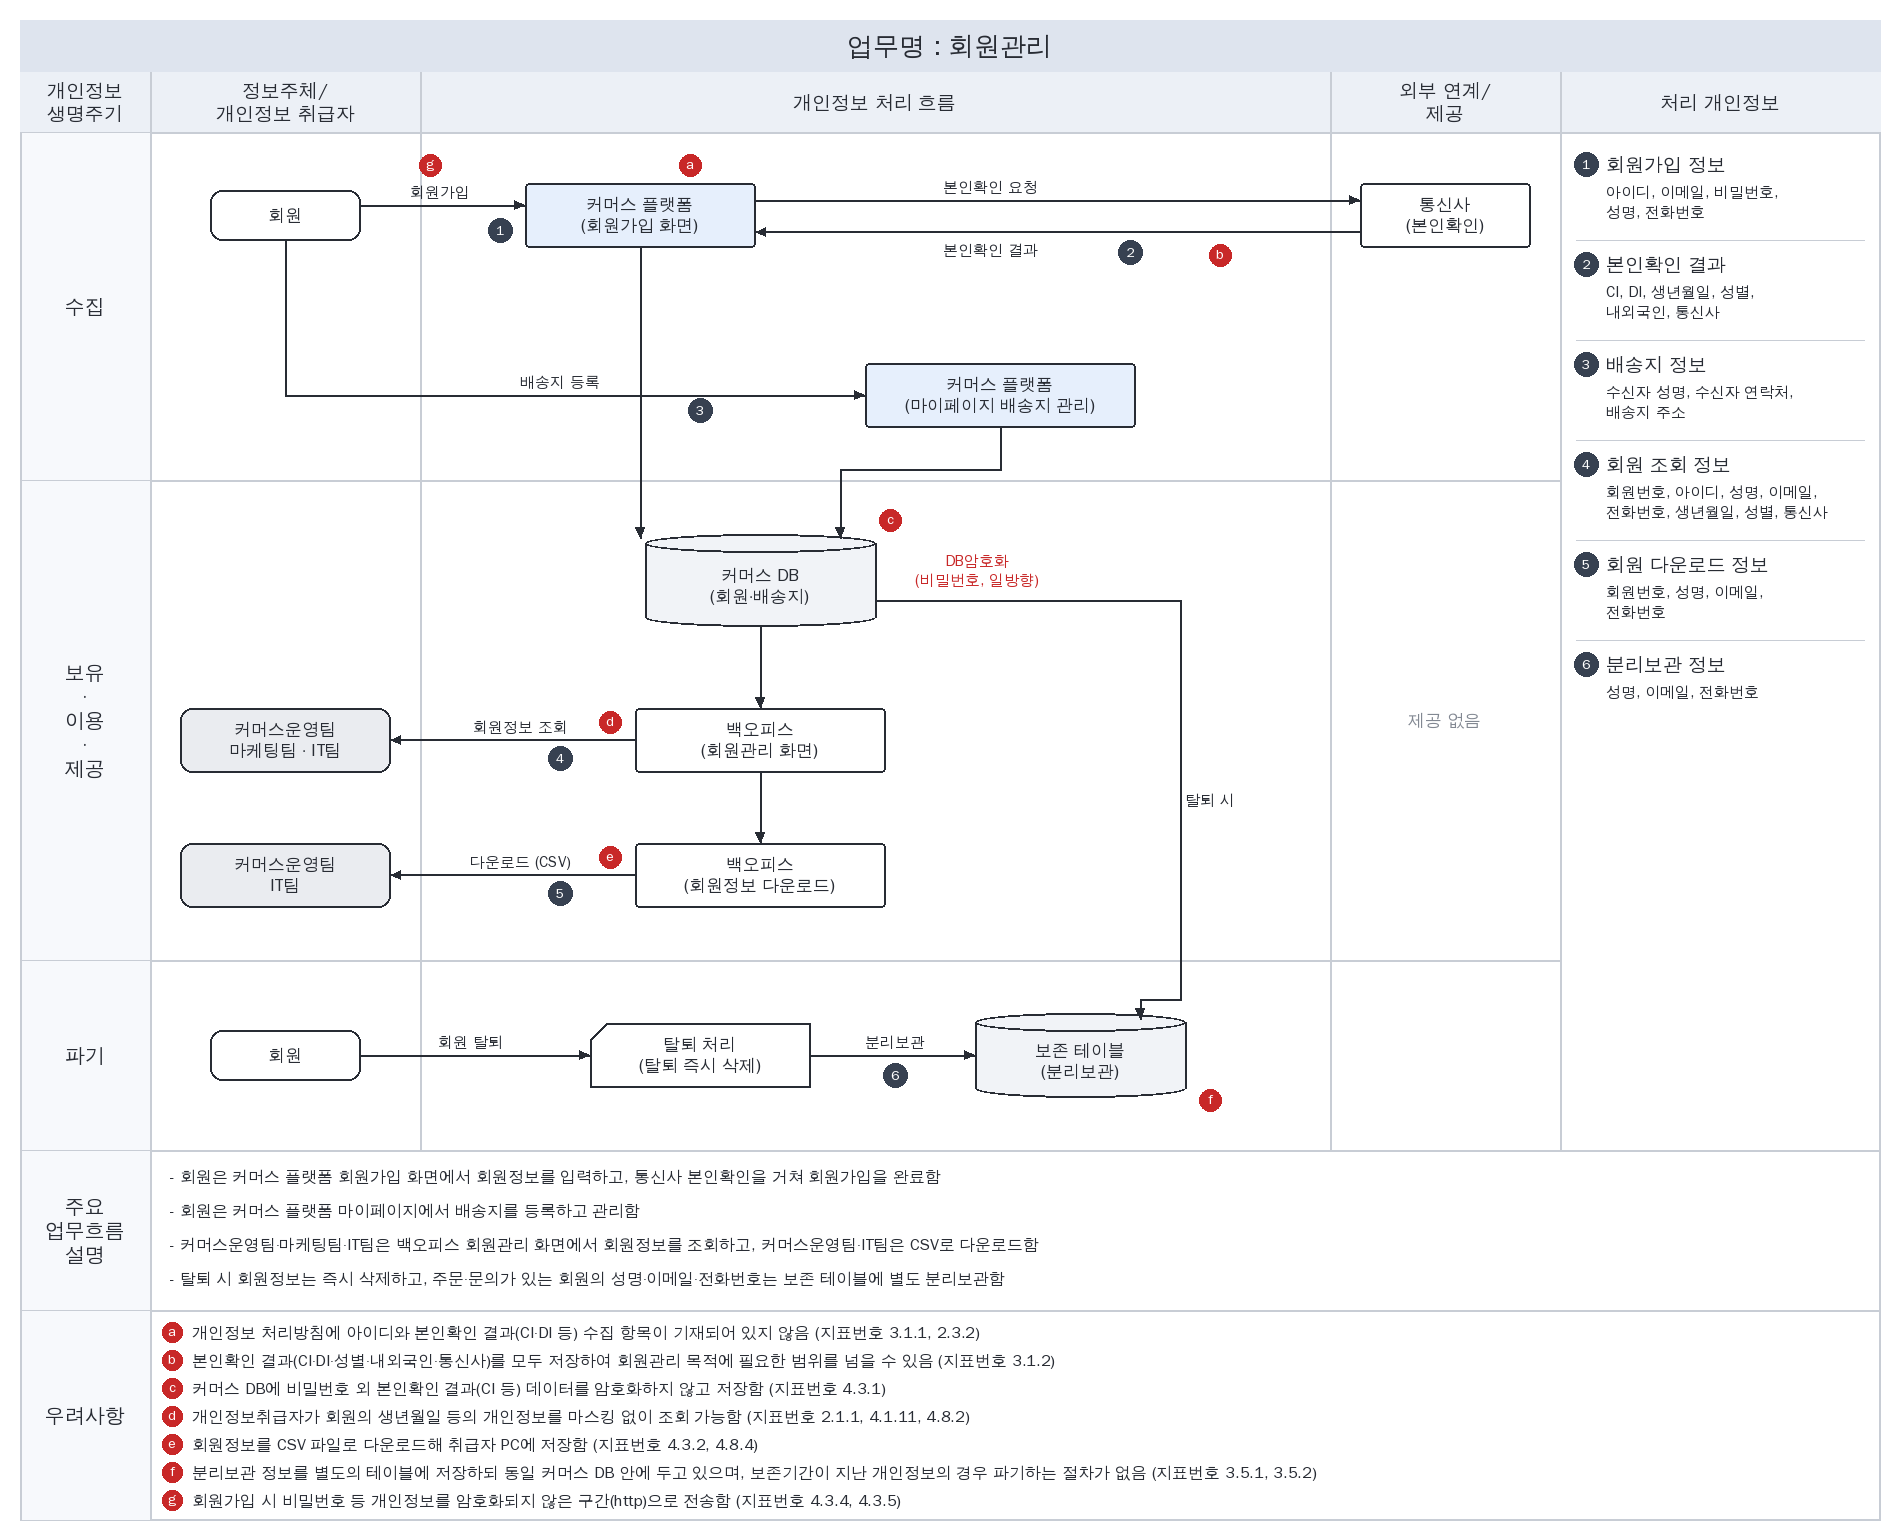
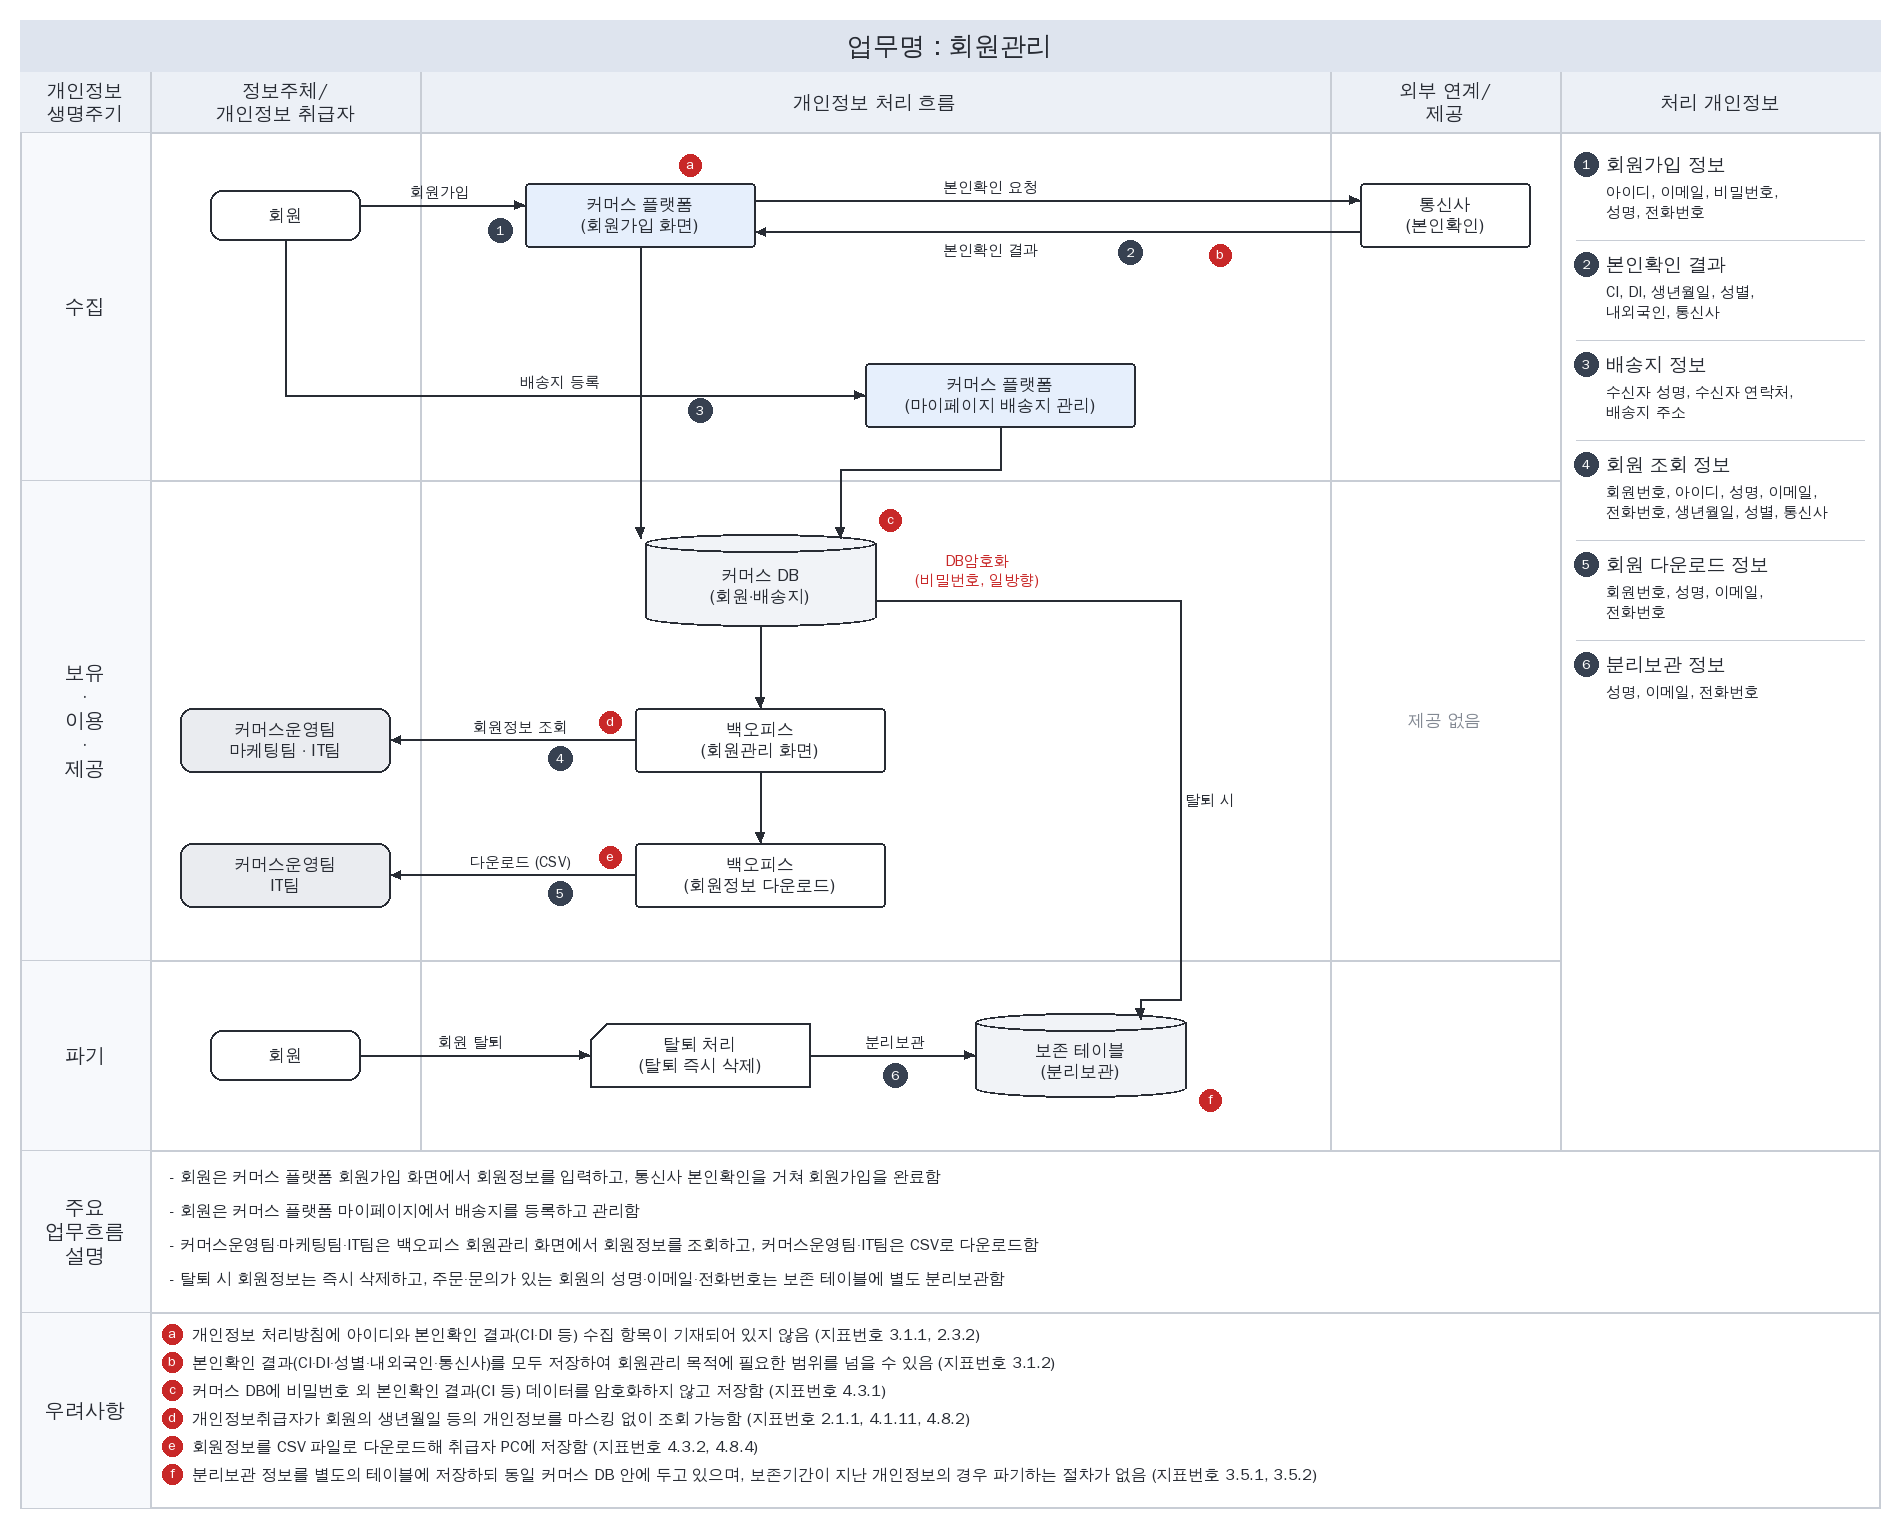
docs(pia): 주문·결제 개인정보 흐름표·흐름도 추가
Claude-Session: https://claude.ai/code/session_014Tg7LS15gSB8NVMa5p89Kz

diff --git a/docs/pia/개인정보_흐름표.md b/docs/pia/개인정보_흐름표.md
@@ -1,7 +1,7 @@
 # 개인정보 흐름표
 
 > 안내서 3.2 개인정보 흐름표 작성(41~48쪽). 개인정보 처리업무표의 업무마다 수집, 보유·이용, 제공·파기 현황을 적습니다. 해당 사항이 없는 칸은 `-`
-> 평가자료(처리방침·설계 문서·업무흐름도)와 시스템 담당자 인터뷰·실사로 작성했습니다. 현재 회원관리 업무를 작성했고, 나머지 업무는 이어서 추가합니다
+> 평가자료(처리방침·설계 문서·업무흐름도)와 시스템 담당자 인터뷰·실사로 작성했습니다. 현재 회원관리, 주문·결제 업무를 작성했고, 나머지 업무는 이어서 추가합니다
 > 원본: [개인정보_흐름표.xlsx](개인정보_흐름표.xlsx). 이 문서는 GitHub에서 보기 위한 사본입니다
 
 ## 1. 수집 흐름표
@@ -18,6 +18,9 @@
 | 회원관리 | 개인정보 보호법 제15조제1항제1호(정보주체 동의), 제15조제1항제4호(계약 이행) | 회원가입 | 아이디, 이메일, 비밀번호, 성명, 전화번호 | 온라인(홈페이지) | 커머스 회원 | 상시 | 커머스운영팀 |
 | 회원관리 | 개인정보 보호법 제15조제1항제1호(정보주체 동의), 정보통신망법 제23조의5제4항(연계정보), 개인정보 보호법 제22조의2(만 14세 미만 확인) | 본인확인 | CI, DI, 생년월일, 성별, 내외국인, 통신사 | 온라인(통신사 연계) | 커머스 회원 | 상시 | 커머스운영팀 |
 | 회원관리 | 개인정보 보호법 제15조제1항제1호(정보주체 동의), 제15조제1항제4호(계약 이행) | 배송지 관리 | 수신자 성명, 수신자 연락처, 배송지 주소 | 온라인(홈페이지) | 커머스 회원 | 상시 | 커머스운영팀 |
+| 주문·결제 | 개인정보 보호법 제15조제1항제1호(정보주체 동의), 제15조제1항제4호(계약 이행) | 상품 주문 | 주문 상품, 수신자 성명, 수신자 연락처, 배송지 주소, 배송 메모 | 온라인(홈페이지) | 커머스 회원 | 상시 | 커머스운영팀 |
+| 주문·결제 | 개인정보 보호법 제15조제1항제1호(정보주체 동의), 제15조제1항제4호(계약 이행) | 카드 결제 | 마스킹 카드번호 | 온라인(PG 연계) | 커머스 회원 | 상시 | 커머스운영팀 |
+| 주문·결제 | 개인정보 보호법 제15조제1항제1호(정보주체 동의), 제15조제1항제4호(계약 이행) | 무통장입금 | 입금자명 | 온라인(홈페이지) | 커머스 회원 | 상시 | 커머스운영팀 |
 
 ## 2. 보유·이용 흐름표
 
@@ -25,9 +28,11 @@
 |---|---|---|---|---|---|---|
 | 회원관리 | 커머스 DB | 비밀번호(일방향) | 회원정보 조회 | 회원번호, 아이디, 성명, 이메일, 전화번호, 생년월일, 성별, 통신사 | 커머스운영팀, 마케팅팀, IT팀 | 백오피스 회원관리 화면 조회·검색 |
 | 회원관리 | 커머스 DB | 비밀번호(일방향) | 회원 정보 다운로드 | 회원번호, 성명, 이메일, 전화번호 | 커머스운영팀, IT팀 | 백오피스 회원정보 다운로드(CSV) |
+| 주문·결제 | 커머스 DB | - | 주문정보 조회 | 주문번호, 회원번호, 성명, 주문 상품, 수신자 성명, 수신자 연락처, 배송지 주소, 배송 메모, 마스킹 카드번호, 입금자명 | 커머스운영팀, IT팀 | 백오피스 주문관리 화면 조회·검색 |
 
 ## 3. 제공·파기 흐름표
 
 | 평가업무명 | 제공 목적 | 제공자 | 수신자 | 제공 정보 | 제공 방법 | 제공 주기 | 암호화 여부 | 제공 근거 | 보관 기간 | 파기 담당자 | 파기 절차 | 분리보관 여부 |
 |---|---|---|---|---|---|---|---|---|---|---|---|---|
 | 회원관리 | - | - | - | - | - | - | - | - | 탈퇴 시까지 | IT팀 | 탈퇴 즉시 회원정보 삭제 및 파기 이력 보관 | 별도 보존 테이블 구성 |
+| 주문·결제 | 카드 결제 처리(위탁) | 커머스운영팀 | PG사(데모페이) | 주문번호, 구매자 성명, 이메일, 전화번호 | PG 결제창 연계 | 결제 시 | - | 개인정보 보호법 제26조(업무위탁) | 탈퇴 후 5년(전자상거래법 제6조) | IT팀 | 탈퇴 시 거래기록 분리보관 후 나머지 삭제 | 별도 보존 테이블 구성 |

diff --git a/docs/pia/README.md b/docs/pia/README.md
@@ -1,7 +1,7 @@
 # 개인정보 영향평가(PIA)
 
 > 커머스 플랫폼(쇼핑몰·백오피스)을 대상으로 개인정보보호위원회「개인정보 영향평가 수행안내서」(2025.10)의 수행 단계를 따라 진행 중인 자체 영향평가입니다.
-> 최종 갱신: 2026-11-07
+> 최종 갱신: 2026-11-24
 
 ## 평가 개요
 
@@ -79,13 +79,13 @@
 
 ### 3.2 개인정보 흐름표 작성
 
-업무마다 수집, 보유·이용, 제공·파기 단계별로 수집 근거·항목·경로, 보유 형태·암호화 항목·개인정보취급자, 제공 여부·보관 기간·파기 절차·분리보관 여부를 정리했습니다. 코드·DB 확인이 필요한 항목(화면별 조회 항목, 파기 담당, 외부 제공 여부 등)은 시스템 담당자 실사·인터뷰로 확인했습니다. 회원관리 업무를 먼저 작성했고, 나머지 업무는 이어서 추가합니다.
+업무마다 수집, 보유·이용, 제공·파기 단계별로 수집 근거·항목·경로, 보유 형태·암호화 항목·개인정보취급자, 제공 여부·보관 기간·파기 절차·분리보관 여부를 정리했습니다. 코드·DB 확인이 필요한 항목(화면별 조회 항목, 파기 담당, 외부 제공 여부 등)은 시스템 담당자 실사·인터뷰로 확인했습니다. 회원관리, 주문·결제 업무를 작성했고, 나머지 업무는 이어서 추가합니다.
 
 - 산출물: [개인정보 흐름표](개인정보_흐름표.md) (원본 [xlsx](개인정보_흐름표.xlsx))
 
 ### 3.3 개인정보 흐름도 작성
 
-흐름표를 바탕으로 안내서 예시 양식(생명주기 × 정보주체·취급자, 처리 흐름, 외부 연계·제공, 처리 개인정보)으로 업무별 개인정보 흐름도를 그리고, 흐름에서 보이는 우려사항과 관련 지표를 표시했습니다. 우려사항은 침해요인 분석에서 확정합니다. 회원관리 업무를 먼저 그렸고, 총괄 개인정보 흐름도는 이어서 작성합니다.
+흐름표를 바탕으로 안내서 예시 양식(생명주기 × 정보주체·취급자, 처리 흐름, 외부 연계·제공, 처리 개인정보)으로 업무별 개인정보 흐름도를 그리고, 흐름에서 보이는 우려사항과 관련 지표를 표시했습니다. 우려사항은 침해요인 분석에서 확정합니다. 회원관리, 주문·결제 업무를 그렸고, 나머지 업무와 총괄 개인정보 흐름도는 이어서 작성합니다.
 
 - 산출물: [개인정보 흐름도](개인정보_흐름도.md)
 

diff --git a/docs/pia/개인정보_흐름도.md b/docs/pia/개인정보_흐름도.md
@@ -2,10 +2,14 @@
 
 > 안내서 3.4 개인정보 흐름도 작성(49~54쪽). 개인정보 흐름표를 바탕으로 업무별 개인정보 흐름도를 그리고, 이어서 시스템 전체의 총괄 개인정보 흐름도를 그립니다
 > 범례: 흰색 도형은 정보주체, 회색 도형은 개인정보취급자, 하늘색 상자는 외부 인터넷에서 접속하는 시스템, 원통은 DB. 실선은 온라인, 점선은 오프라인, 붉은 굵은 선은 암호화 구간. 검은 원 번호는 오른쪽 처리 개인정보, 붉은 원 기호는 우려사항 발생 위치입니다
-> 접속 구간은 현재 운영 환경(http) 기준입니다. 우려사항은 흐름분석 단계에서 본 예상 문제점이며, 침해요인 분석에서 관련 지표로 점검해 확정합니다
+> 전송 구간 암호화는 배포 전이라 표시하지 않고, 침해요인 분석에서 해당 없음과 사유를 적습니다. 우려사항은 흐름분석 단계에서 본 예상 문제점이며, 침해요인 분석에서 관련 지표로 점검해 확정합니다
 
 ## 업무별 개인정보 흐름도
 
 ### 1. 회원관리
 
 ![회원관리 개인정보 흐름도](그림/개인정보_흐름도/1_회원관리.png)
+
+### 2. 주문·결제
+
+![주문·결제 개인정보 흐름도](그림/개인정보_흐름도/2_주문_결제.png)
